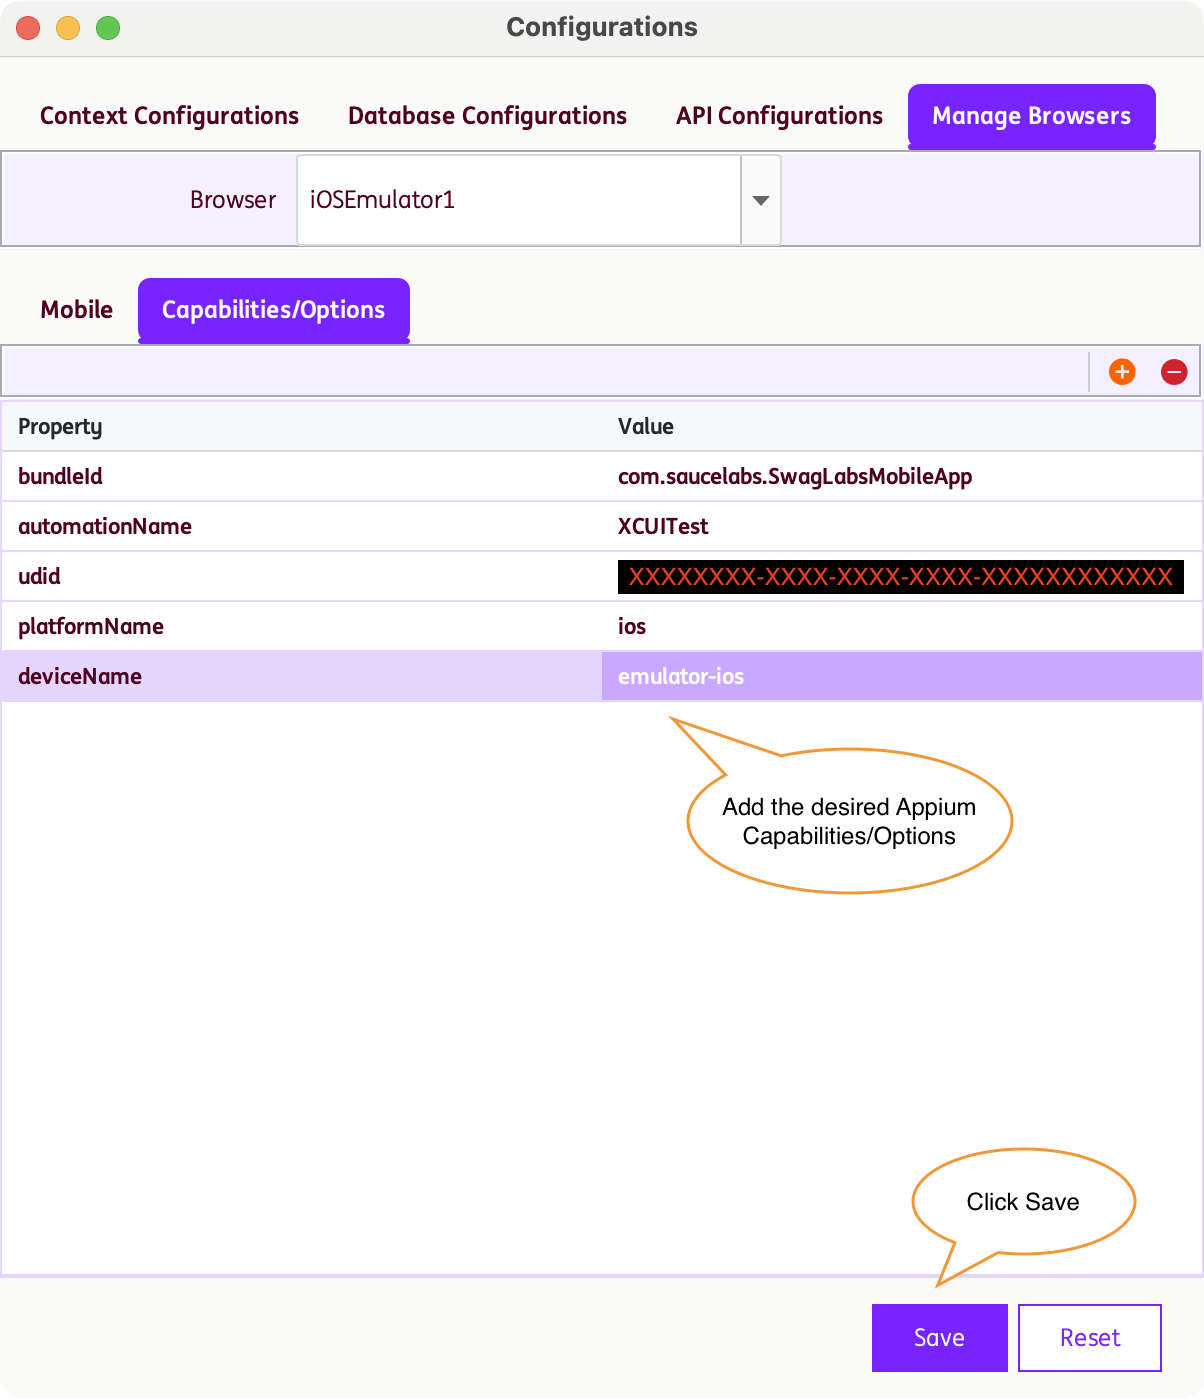
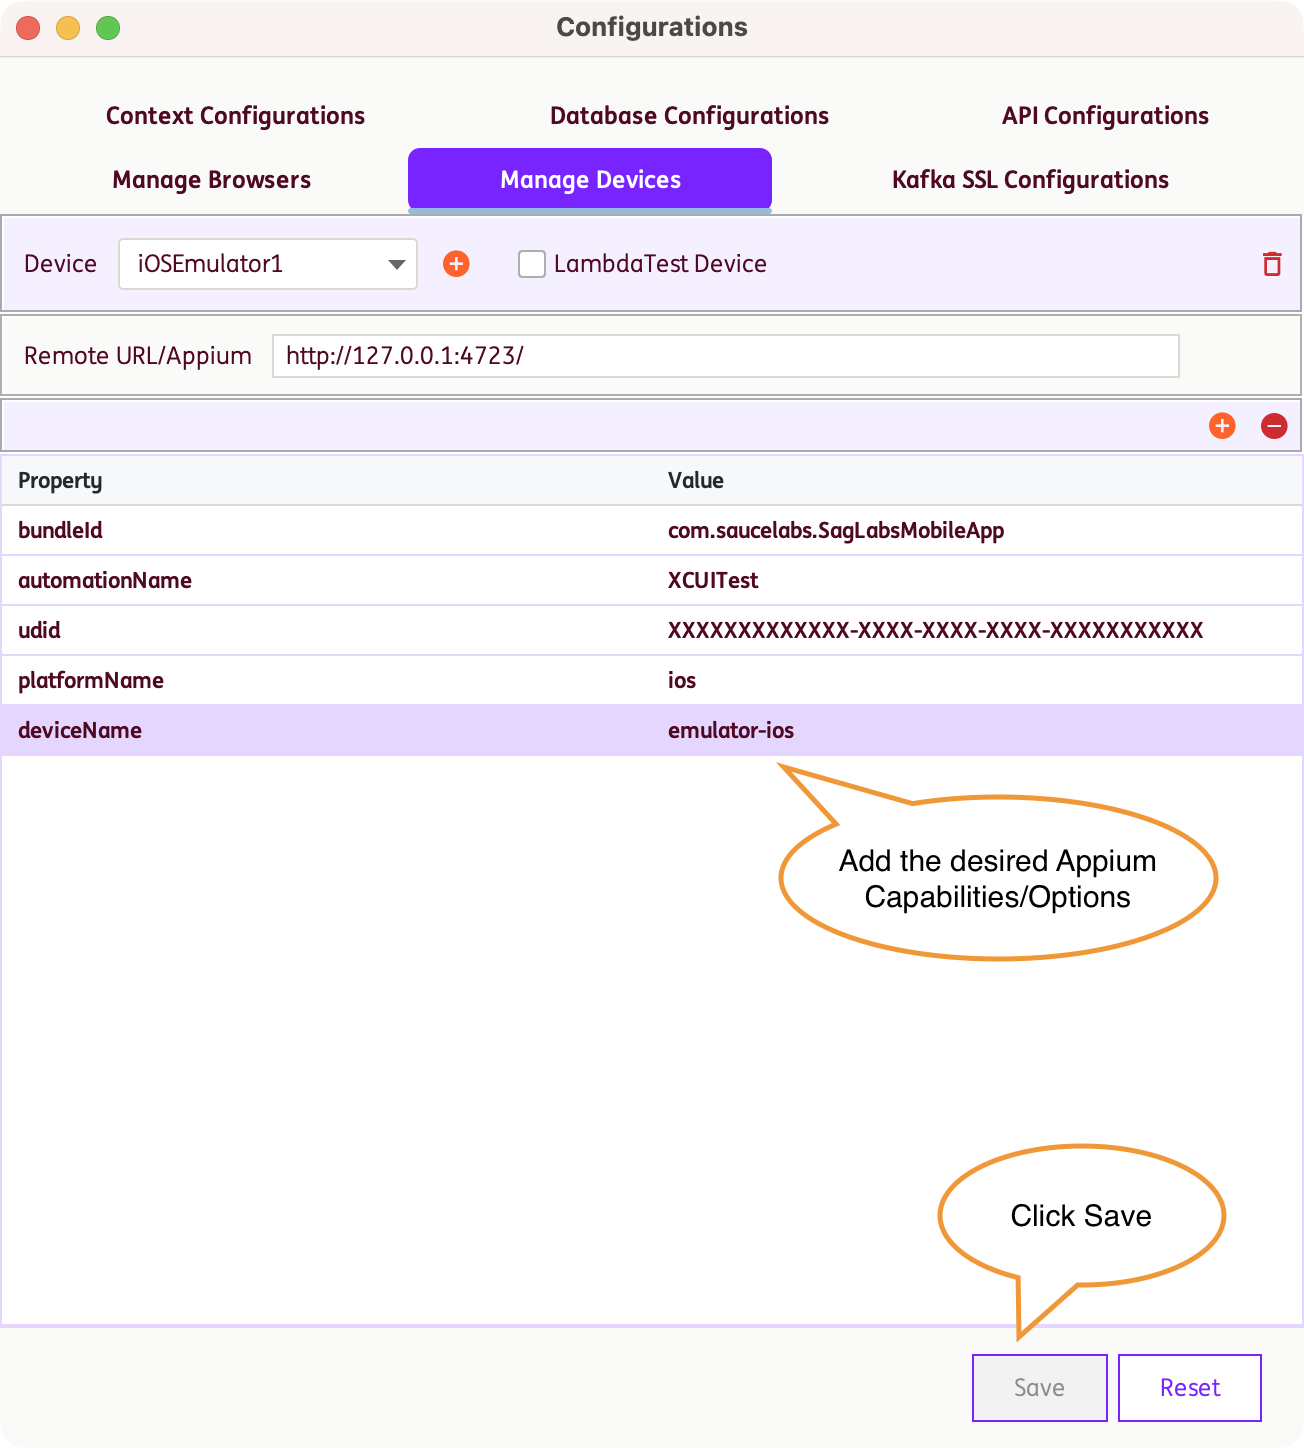
Updated screenshots and steps for LambdaTest, Configurations, and Run Settings

diff --git a/docs/mobiletesting/emulatorsetup.md b/docs/mobiletesting/emulatorsetup.md
@@ -6,15 +6,11 @@ Follow the steps below to create an Appium configuration in INGenious.
 
 * Click on the Configuration icon ![browserConfig](../img/toolui/BrowserConfiguration.png "browserConfig"){ width="20px" }
 
-* Inside the **Manage Browser** tab, Enter the name of the **Appium Configuation** you want to create, in the `Browser` textbox and hit ++enter++ 
+* In the **Manage Devices** tab, click the `+` icon beside the **Device** dropdown, and enter the name of the **Appium Configuation** you want to create and hit ++enter++ 
 
-* Inside the **Mobile Tab**, you can set your **Remote URL/Appium** from the textbox. By default, it is set to `http://127.0.0.1:4723/`
+* Inside the same tab, you can set your **Appium Capabilities/Options** and **Remote URL/Appium** from the textbox. By default, it's set to `http://127.0.0.1:4723/`
 
-     ![createConfig](../img/mobiletesting/sampleRemoteURL.jpeg "remoteurl"){ width=50% }
-
-* Inside the **Capabilities/Options Tab**, you can set your **Appium Capabilities/Options**
-
-     ![createConfig](../img/mobiletesting/sampleCapabilities.jpeg "createConfig"){ width=50% }
+     ![createConfig](../img/mobiletesting/sampleRemoteURL.png "remoteurl"){ width=50% }
 
 * By default, `automationName`, `deviceName`, `platformName` and `platformVersion` are the required key-value pairs for **Appium configuration** when creating new emulators. Additional Appium configurations can be included as needed.
 
@@ -28,12 +24,6 @@ Follow the steps below to create an Appium configuration in INGenious.
 === "Sample Android Emulator Configurations"
     
     **Sample Android Emulator INGenious Configurations**
-
-    Remote URL:
-
-    ![createConfig](../img/mobiletesting/remoteurl-android.png "remoteUrl"){ width=50% }
-    
-    Appium Capabilities/Options:
 
     ![createConfig](../img/mobiletesting/config-android.png "createConfig"){ width=50% }
    
@@ -53,12 +43,6 @@ Follow the steps below to create an Appium configuration in INGenious.
 === "Sample iOS Emulator Configurations"
 
     **Sample iOS Emulator INGenious Configurations**
-
-    Remote URL:
-
-    ![createConfig](../img/mobiletesting/remoteurl-ios.png "remoteUrl"){ width=50% }
-
-    Appium Capabilities/Options:
 
     ![createConfig](../img/mobiletesting/config-ios.png "createConfig"){ width=50% }
 
@@ -96,7 +80,7 @@ Follow the steps below to create an Appium configuration in INGenious.
     
     ***Appium Capabilities/Options***
 
-    * For this example, you can set the capabilities as below:
+    * For this example, you can set the capabilities as seen below:
 
         ![createConfig](../img/mobiletesting/config-lambda.png "createConfig"){ width=50% }
 

diff --git a/docs/browsertesting/config.md b/docs/browsertesting/config.md
@@ -74,11 +74,11 @@
 
 -------------------------------------------
 
-??? note "LambdaTest Configuration"
+??? note "LambdaTest Grid Configuration"
 
-    ### LambdaTest Configuration
+    ### LambdaTest Grid Configuration
 
-    To run web automation tests via LambdaTest, set configurations in the Run Settings panel under the **LambdaTest Capabilities** tab.<br>
+    To run web automation tests via LambdaTest, set configurations in the Run Settings panel under the **LambdaTest Grid Capabilities** tab.<br>
 
     Provide the following required fields and other execution properties. 
 
